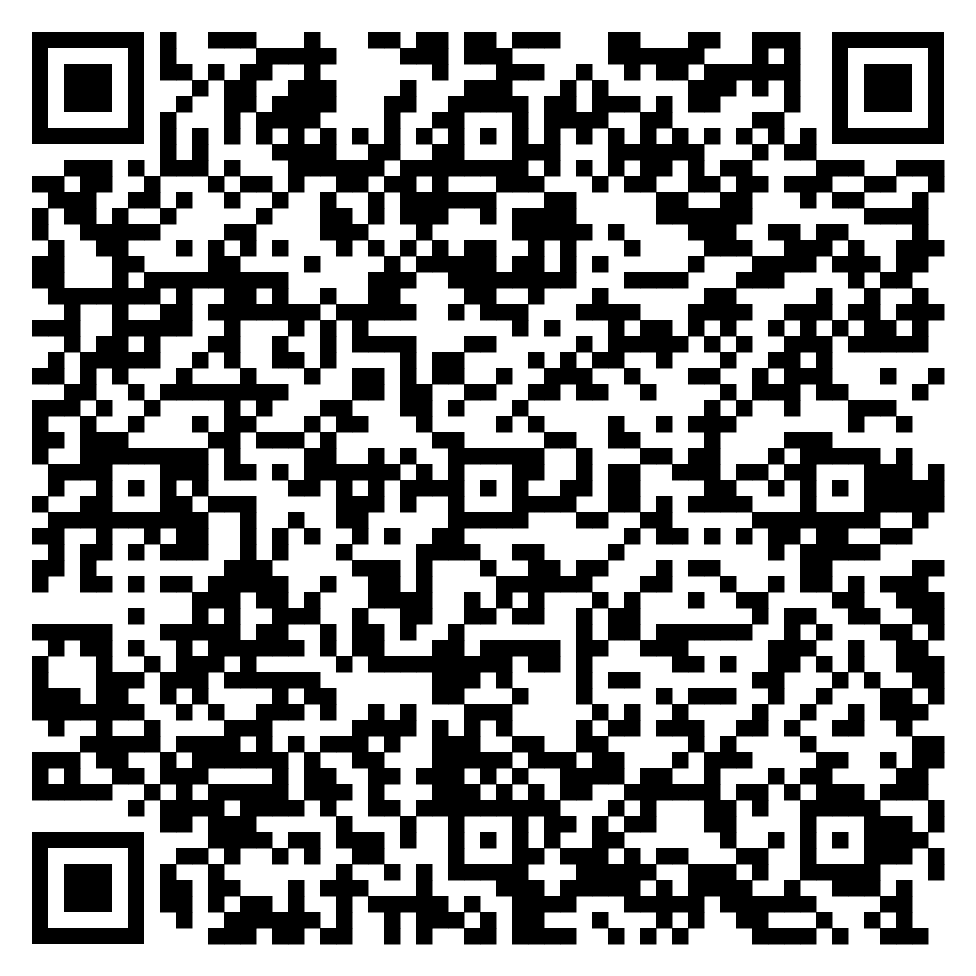
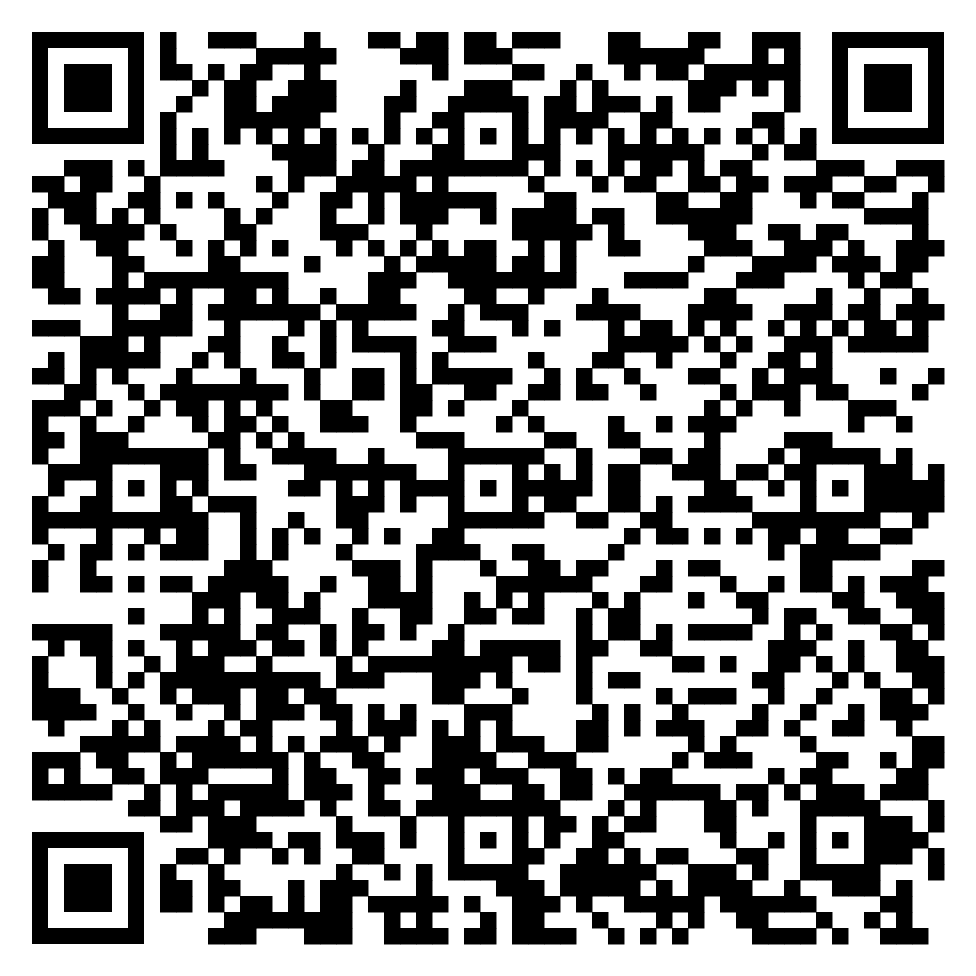
new QRCODES

diff --git a/js/reveal.dom.js b/js/reveal.dom.js
@@ -54,7 +54,7 @@ function onScanSuccess(decodedText, decodedResult) {
     console.log(decodedResult);
 
     // Set  QR code based on the decoded text
-    if (decodedText == "Pluto") {
+    if (decodedText == "Why was the JavaScript reality show cancelled after only one episode? People thought it seemed scripted.") {
         game.scanQRCode(); // Scan the QR code
         counterElem.innerText = game.getScannedQRCodeCount();
         
@@ -64,6 +64,30 @@ function onScanSuccess(decodedText, decodedResult) {
             html5QrcodeScanner.resume();
         }, 1000);
     } 
+
+    if (decodedText == "Why did the developer quit his job? He didn’t get arrays.") {
+        game.scanQRCode(); // Scan the QR code
+        counterElem.innerText = game.getScannedQRCodeCount();
+        
+        html5QrcodeScanner.pause();
+
+        setTimeout(function(){
+            html5QrcodeScanner.resume();
+        }, 1000);
+    } 
+
+    if (decodedText == "How do you comfort a JavaScript bug? You console it.") {
+        game.scanQRCode(); // Scan the QR code
+        counterElem.innerText = game.getScannedQRCodeCount();
+        
+        html5QrcodeScanner.pause();
+
+        setTimeout(function(){
+            html5QrcodeScanner.resume();
+        }, 1000);
+    } 
+
+
     setTimeout(function() {
         html5QrcodeScanner.resume();
     }, 1000);
